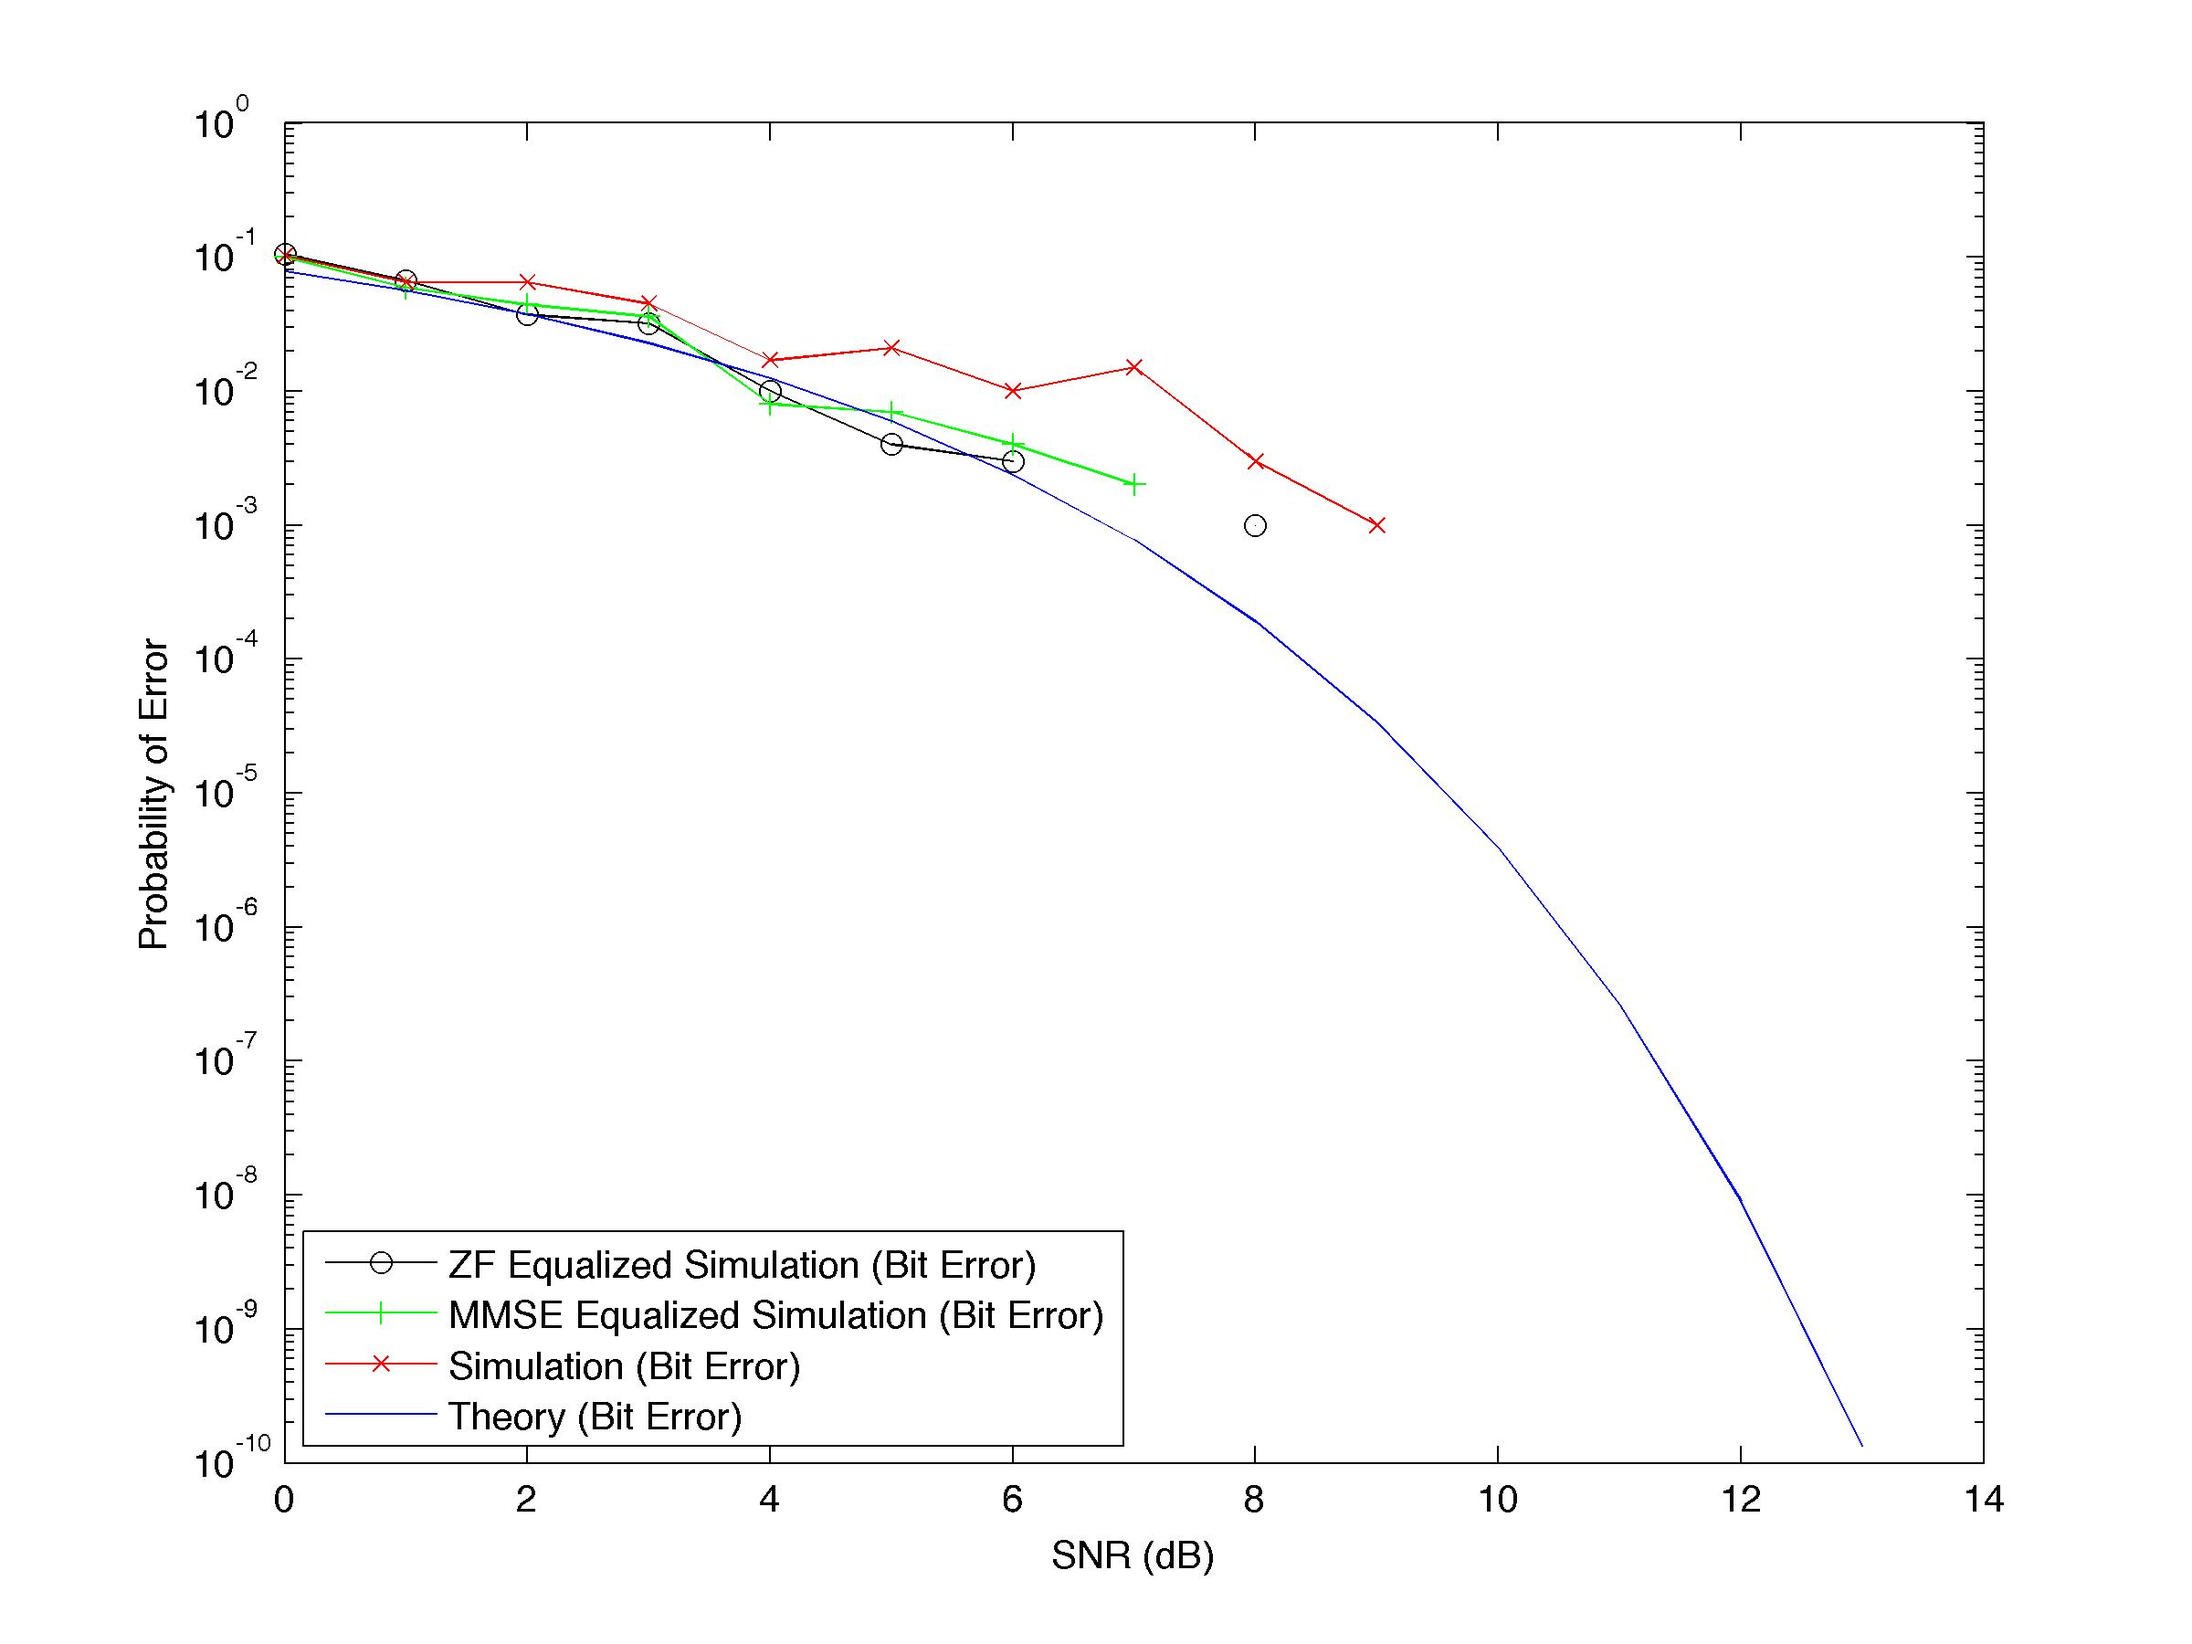
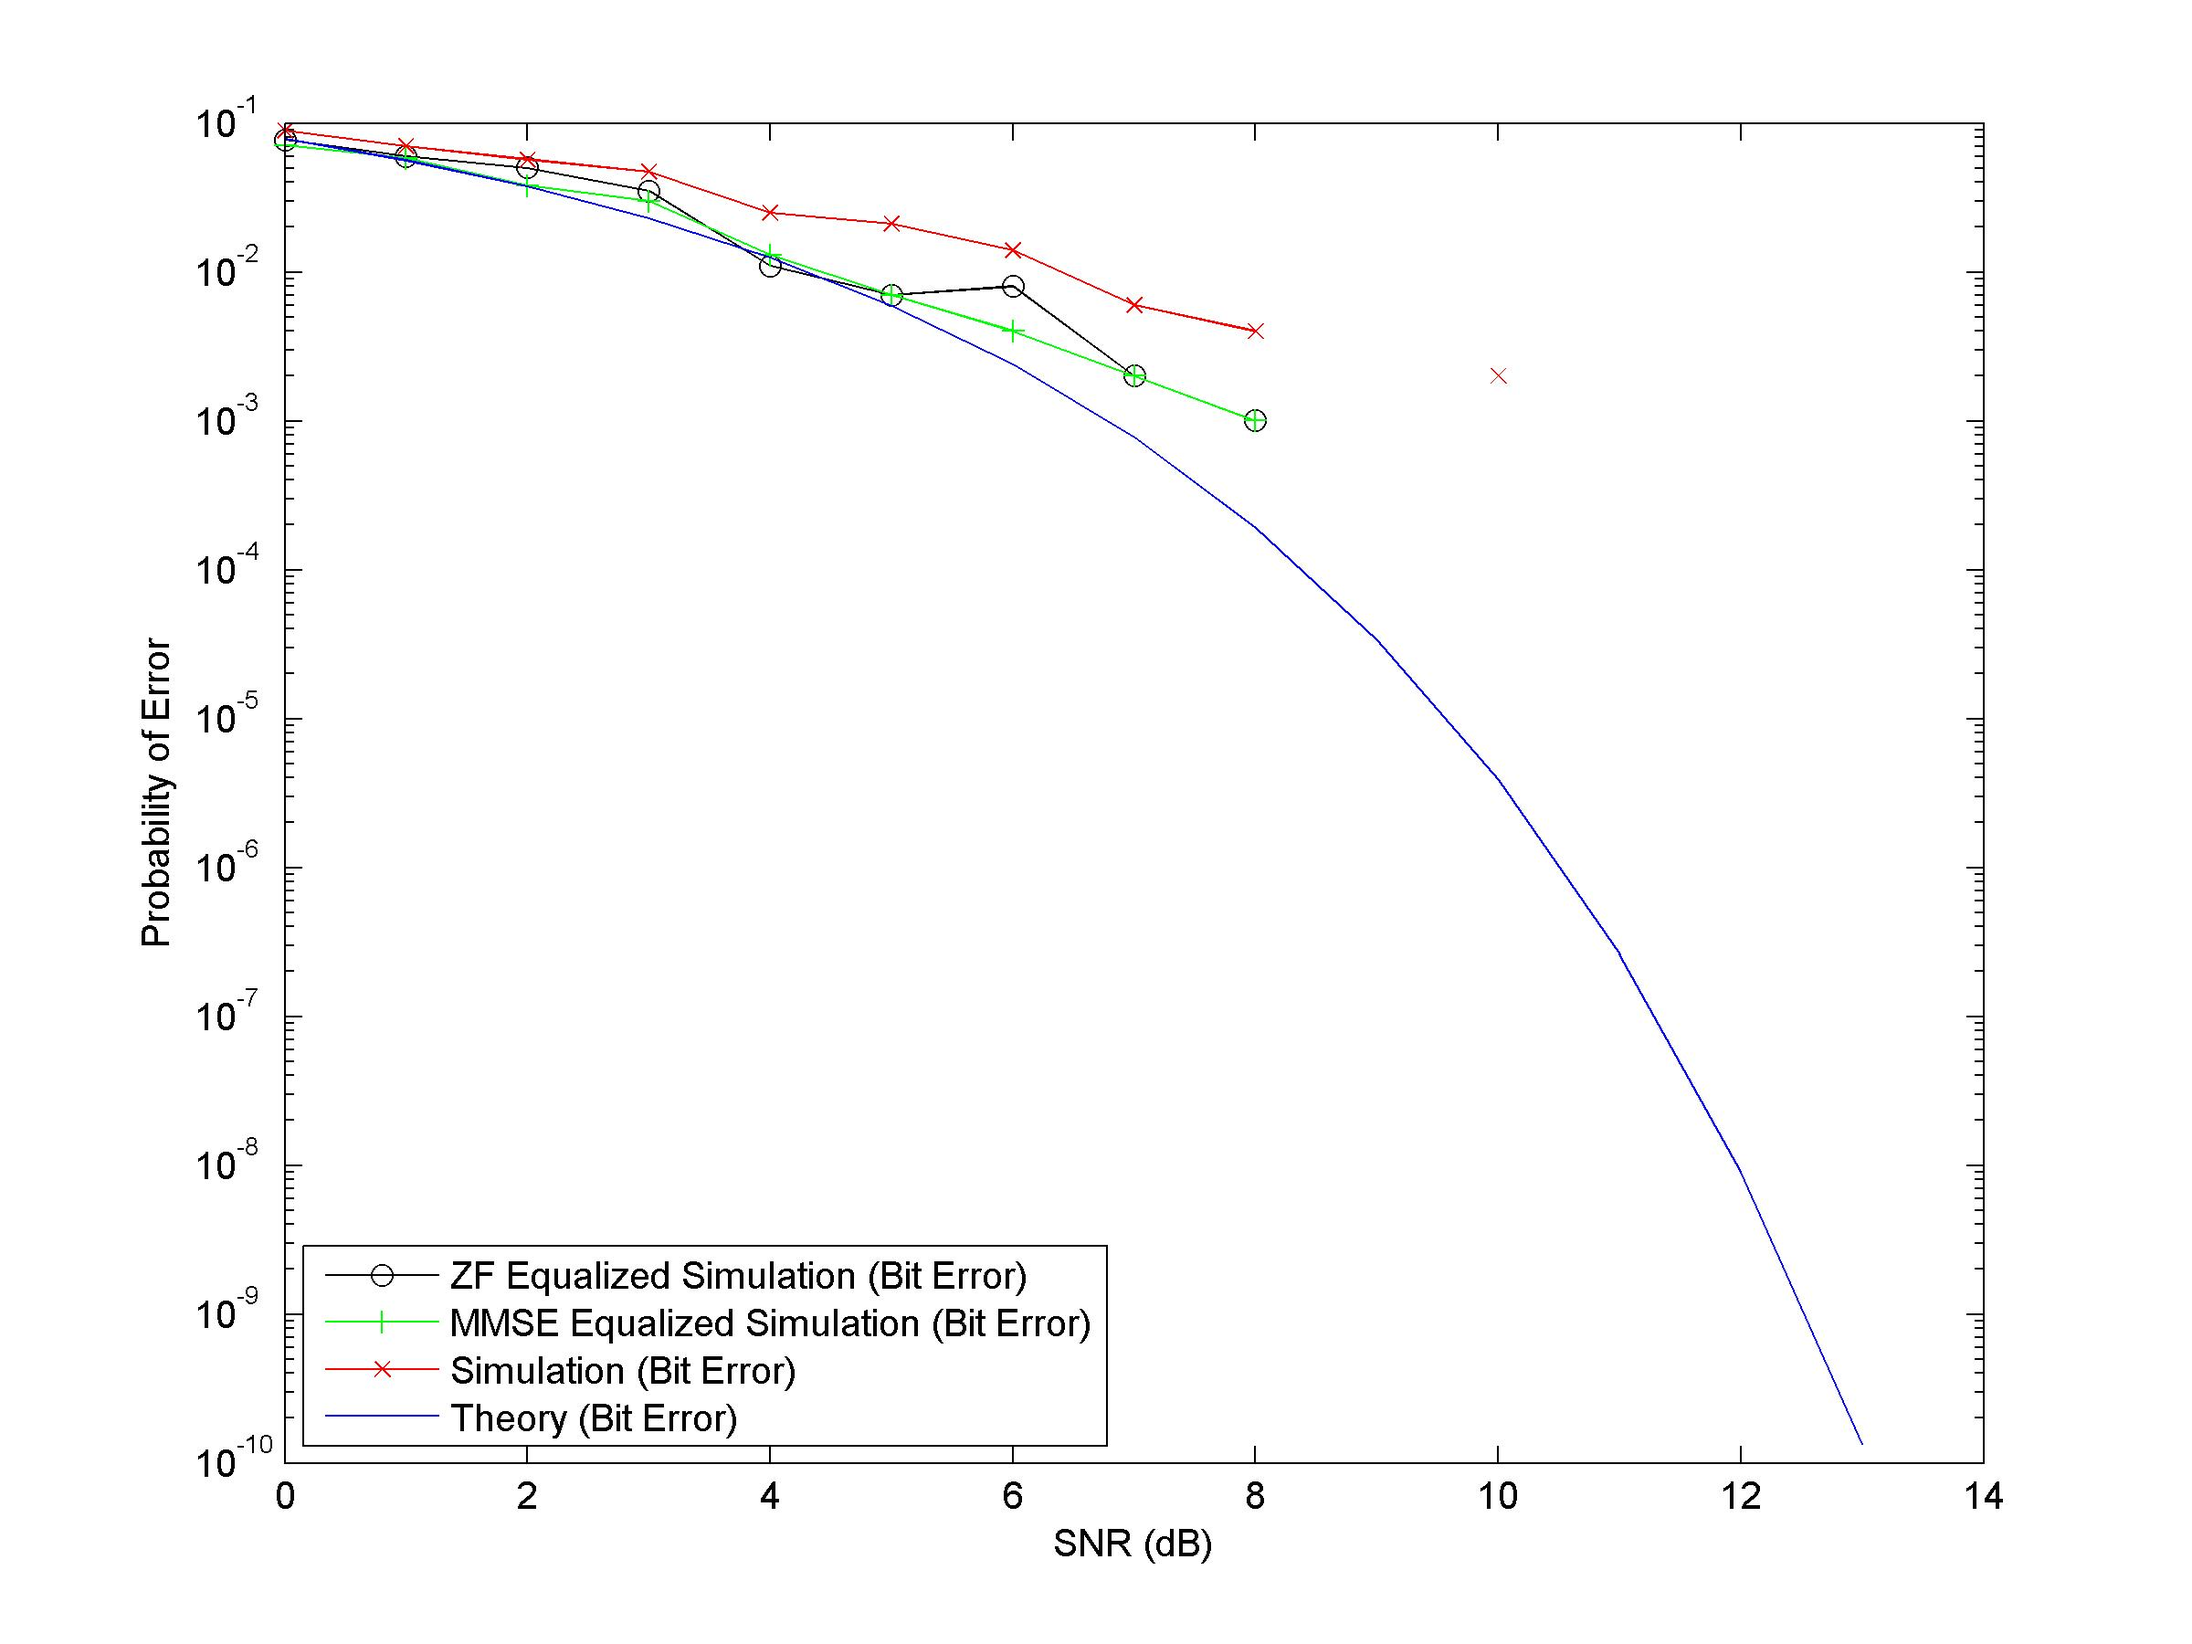
-

diff --git a/step5/test.m b/step5/test.m
@@ -1,0 +1,142 @@
+close all
+clearvars
+SNR = 0:13;
+
+mmse_bpsk_1= [0.089089,0.0570,0.0420,0.0300,0.0150,0.00700,0.00280,0.00080,0.0002,0,0,0,0,0];
+dfe_mmse_bpsk_1 = [0.0796,0.0582,0.0395,0.0248,0.0129,0.00598,0.00239,0.00079,0.000199,0,0,0,0,0];
+zf_bpsk_1= [0.0990,0.0680,0.04604,0.03203,0.016016,0.00800,0.0030,0.00150,0.0005,0,0,0,0,0];
+ne_bpsk_1 = [0.1001,0.0760,0.0550,0.0410,0.0280,0.0180,0.0080,0.0090,0.0060,0,0,0,0,0];
+theo_bpsk_1= [0.0786,0.0562,0.0375,0.0228,0.0125,0.0059,0.0023,0.0007,0.00019,3.36272284196176e-05,3.87210821552205e-06,2.61306795357521e-07,9.00601035062878e-09,1.33293101753005e-10];
+
+ h=figure;
+    semilogy(SNR,zf_bpsk_1, '-ko');
+    hold on;
+    semilogy(SNR,mmse_bpsk_1, '-g+');
+    semilogy(SNR,dfe_mmse_bpsk_1,'-mv');
+    semilogy(SNR,ne_bpsk_1, '-rx');
+    semilogy(SNR,theo_bpsk_1, 'b');
+    ylabel('Probability of Error');
+    xlabel('SNR (dB)');
+    xlim([0 10]);
+    ylim([10^-4 10^0]);
+    legend('3 Tap ZF Equalized Simulation (Bit Error)', ...
+        '3 Tap MMSE Equalized Simulation (Bit Error)',...
+         '3 Tap DFE-MMSE Equalized Simulation (Bit Error)',...
+         'Simulation (Bit Error)','Theory (Bit Error)','Location','SouthWest');
+    % save the BER graph
+    print(h,'-djpeg','-r300','bpSNR1');
+
+mmse_bpsk_2 = [0.080,0.06,0.04,0.02301,0.013,0.006,0.003,0.0009,0,0,0,0,0,0];
+dfe_mmse_bpsk_2 = [0.0796,0.0572,0.0385,0.0238,0.0135,0.00599,0.0024,0.00075,0.000195,0,0,0,0,0];
+zf_bpsk_2=   [0.0870,0.0640,0.04404,0.0250,0.0140,0.0063,0.0050,0.001,0,0,0,0,0,0]
+theo_bpsk_2= [0.0786,0.0562,0.0375,0.0228,0.0125,0.0059,0.0023,0.0007,0.00019,3.36272284196176e-05,3.87210821552205e-06,2.61306795357521e-07,9.00601035062878e-09,1.33293101753005e-10];
+ne_bpsk_2 =  [0.0910,0.0670,0.0570,0.0390,0.0260,0.0180,0.0080,0.0060,0.0030,0.0010,0,0,0,0];
+
+ h=figure;
+    semilogy(SNR,zf_bpsk_2, '-ko');
+    hold on;
+    semilogy(SNR,mmse_bpsk_2, '-g+');
+    semilogy(SNR,dfe_mmse_bpsk_2,'-mv');
+    semilogy(SNR,ne_bpsk_2, '-rx');
+    semilogy(SNR,theo_bpsk_2, 'b');
+    ylabel('Probability of Error');
+    xlabel('SNR (dB)');
+        xlim([0 10]);
+    ylim([10^-4 10^0]);
+    legend('5 Tap ZF Equalized Simulation (Bit Error)', ...
+         '5 Tap DFE-MMSE Equalized Simulation (Bit Error)',...
+        '5 Tap MMSE Equalized Simulation (Bit Error)','Simulation (Bit Error)','Theory (Bit Error)','Location','SouthWest');
+    % save the BER graph
+    print(h,'-djpeg','-r300','bpSNR2');
+
+mmse_bpsk_3= [0.07907,0.0565,0.0380,0.0230,0.0128,0.00600,0.003,0.00080,0,0,0,0,0,0];
+dfe_mmse_bpsk_3 = [0.0796,0.0572,0.0385,0.0238,0.0135,0.00599,0.00239,0.00079,0.000199,0,0,0,0,0];
+zf_bpsk_3= [0.08207,0.0570,0.040,0.02402,0.0130,0.00800,0.0038,00.001,0,0,0,0,0,0];
+theo_bpsk_3= [0.0786,0.0562,0.0375,0.0228,0.0125,0.0059,0.0023,0.0007,0.00019,3.36272284196176e-05,3.87210821552205e-06,2.61306795357521e-07,9.00601035062878e-09,1.33293101753005e-10];
+ne_bpsk_3 = [0.0960,0.0750,0.0640,0.0430,0.0210,0.0090,0.01301,0.0050,0.0080,0.0030,0,0,0,0];
+
+ h=figure;
+    semilogy(SNR,zf_bpsk_3, '-ko');
+    hold on;
+    semilogy(SNR,mmse_bpsk_3, '-g+');
+    semilogy(SNR,dfe_mmse_bpsk_3,'-mv');
+    semilogy(SNR,ne_bpsk_3, '-rx');
+    semilogy(SNR,theo_bpsk_3, 'b');
+    ylabel('Probability of Error');
+    xlabel('SNR (dB)');
+        xlim([0 10]);
+    ylim([10^-4 10^0]);
+    legend('3 Tap ZF Equalized Simulation (Bit Error)', ...
+        '3 Tap DFE-MMSE Equalized Simulation (Bit Error)',...
+        '3 Tap MMSE Equalized Simulation (Bit Error)','Simulation (Bit Error)','Theory (Bit Error)','Location','SouthWest');
+    % save the BER graph
+    print(h,'-djpeg','-r300','bpSNR3');
+
+mmse_qpsk_1= [0.2921,0.24609,0.198,0.17086,0.1116,0.07683,0.0462,0.0272,0.0136,0.006,0.002,0,0.00,0.00];
+dfe_mmse_qpsk_1 = [0.2941,0.2497,0.19923,0.1595,0.1089,0.0799,0.0494,0.02591,0.01199,0.004890,0,0,0,0];
+zf_qpsk_1= [0.2961,0.2581,0.199,0.17486,0.11764,0.0804,0.0481,0.03321,0.01840,0.0072,0.0032,0.000,0.000,0.000];
+theo_qpsk_1= [0.2921,0.2447,0.19723,0.1515,0.10979,0.0739,0.0454,0.02501,0.0119,0.004820,0.001564,0.000387,6.86040710628266e-05,7.93848103775288e-06];
+ne_qpsk_1 = [0.30732,0.26130,0.2252,0.1660,0.1408,0.0940,0.06802,0.05442,0.02961,0.0136,0.00720,0.0020,0.0016,0.0008];
+
+ h=figure;
+    semilogy(SNR,zf_qpsk_1, '-ko');
+    hold on;
+    semilogy(SNR,mmse_qpsk_1, '-g+');
+    semilogy(SNR,dfe_mmse_qpsk_1,'-mv');
+    semilogy(SNR,ne_qpsk_1, '-rx');
+    semilogy(SNR,theo_qpsk_1, 'b');
+    ylabel('Probability of Error');
+    xlabel('SNR (dB)');
+        xlim([0 13]);
+    ylim([10^-4 10^0]);
+    legend('3 Tap ZF Equalized Simulation (Symbol Error)', ...
+        '3 Tap DFE-MMSE Equalized Simulation (Symbol Error)',...
+        '3 Tap MMSE Equalized Simulation (Symbol Error)','Simulation (Symbol Error)','Theory (Symbol Error)','Location','SouthWest');
+    % save the BER graph
+    print(h,'-djpeg','-r300','qpSNR1');
+
+mmse_qpsk_2= [0.293715,0.2456,0.20448,0.1656,0.11964,0.07392,0.04522,0.02881,0.012806,0.005603,0.00170,0,0,0];
+dfe_mmse_qpsk_2 = [0.2999,0.2449,0.19725,0.1516,0.10981,0.0741,0.0459,0.0259,0.0121,0.004890,0.001594,0,0,0];
+zf_qpsk_2= [0.2997,0.2340,0.2080,0.1780,0.1244,0.07442,0.048819,0.03041,0.01440,0.0068,0.002,0,0,0];
+theo_qpsk_2= [0.2921,0.2447,0.19723,0.1515,0.10979,0.0739,0.0454,0.02501,0.0119,0.004820,0.001564,0.000387,6.86040710628266e-05,7.93848103775288e-06];
+ne_qpsk_2 = [0.31252,0.25130,0.2324,0.1824,0.1456,0.104041,0.075630,0.0548219,0.03441,0.020808,0.01240,0.00760,0.00320,0.00160];
+
+ h=figure;
+    semilogy(SNR,zf_qpsk_2, '-ko');
+    hold on;
+    semilogy(SNR,mmse_qpsk_2, '-g+');
+    semilogy(SNR,dfe_mmse_qpsk_2,'-mv');
+    semilogy(SNR,ne_qpsk_2, '-rx');
+    semilogy(SNR,theo_qpsk_2, 'b');
+    ylabel('Probability of Error');
+    xlabel('SNR (dB)');
+            xlim([0 13]);
+    ylim([10^-4 10^0]);
+    legend('5 Tap ZF Equalized Simulation (Symbol Error)', ...
+        '5 Tap DFE-MMSE Equalized Simulation (Symbol Error)',...
+        '5 Tap MMSE Equalized Simulation (Symbol Error)','Simulation (Symbol Error)','Theory (Symbol Error)','Location','SouthWest');
+    % save the BER graph
+    print(h,'-djpeg','-r300','qpSNR2');
+
+mmse_qpsk_3= [0.29251,0.24049,0.19907,0.1545,0.112,0.0740,0.048019,0.0278,0.01300,0.0052,0.0022,0.00040,0,0];
+dfe_mmse_qpsk_3 = [0.2928,0.245,0.1973,0.1519,0.10983,0.0741,0.0459,0.0252,0.0122,0.004826,0.00159,0,0,0];
+zf_qpsk_3 = [0.2929,0.2492,0.20,0.1588,0.12004,0.07563,0.05002,0.02860,0.0150,0.0055,0.0024,0.00050,0,0];
+theo_qpsk_3= [0.2921,0.2447,0.19723,0.1515,0.10979,0.0739,0.0454,0.02501,0.0119,0.004820,0.001564,0.000387,6.86040710628266e-05,7.93848103775288e-06];
+ne_qpsk_3 =[0.3097,0.2725,0.2192,0.18487,0.14805,0.10844,0.07763,0.05562,0.03841,0.02440,0.0124,0.0044,0.0024,0];
+
+ h=figure;
+    semilogy(SNR,zf_qpsk_3, '-ko');
+    hold on;
+    semilogy(SNR,mmse_qpsk_3, '-g+');
+    semilogy(SNR,dfe_mmse_qpsk_3,'-mv');
+    semilogy(SNR,ne_qpsk_3, '-rx');
+    semilogy(SNR,theo_qpsk_3, 'b');
+    ylabel('Probability of Error');
+    xlabel('SNR (dB)');
+            xlim([0 13]);
+    ylim([10^-4 10^0]);
+    legend('3 Tap ZF Equalized Simulation (Symbol Error)', ...
+        '3 Tap DFE-MMSE Equalized Simulation (Symbol Error)',...
+        '3 Tap MMSE Equalized Simulation (Symbol Error)','Simulation (Symbol Error)','Theory (Symbol Error)','Location','SouthWest');
+    % save the BER graph
+    print(h,'-djpeg','-r300','qpSNR3');

diff --git a/step5/MMSE_Equalizer_Train.m b/step5/MMSE_Equalizer_Train.m
@@ -1,4 +1,4 @@
-function [c_mmse] = MMSE_Equalizer_Train(trainerSequence,receivedSymbols,overSampleSize,L)
+function [c_mmse] = MMSE_Equalizer_Train(trainerSequence,receivedSymbols,L)
 N = length(trainerSequence)/(2*L+1);
 R = zeros(4*L+1,4*L+1);
 p=zeros(1,4*L+1)';
